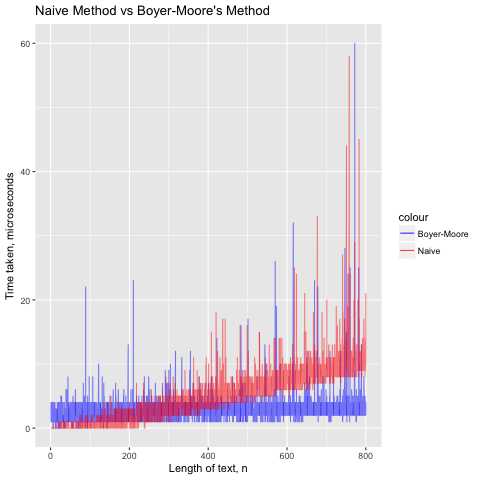
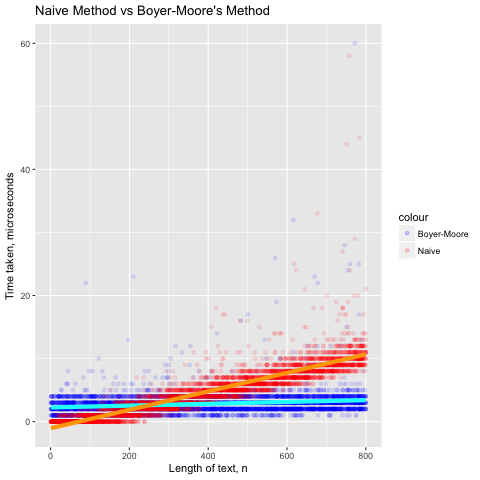
Changed plot type

diff --git a/README.md b/README.md
@@ -12,7 +12,7 @@ Please **don't** copy for students in the same course and especially same lab se
   * Worst Case, pattern is length of one *or* matched at every index. **(Done)**
 5. Report - running time vs input size, n. **(Done)**
   * Write a function to simulate and write the input size and running time to a text file (csv format) **(Done)**
-  * Use R to read the text file, generate line plot and add a regression line (if possible). **(Done)**
+  * Use R to read the text file, generate scatter plot and add a regression line (if possible). **(Done)**
 6. Prepare for presentation. **(Done)**
 
 ## Disclaimer
